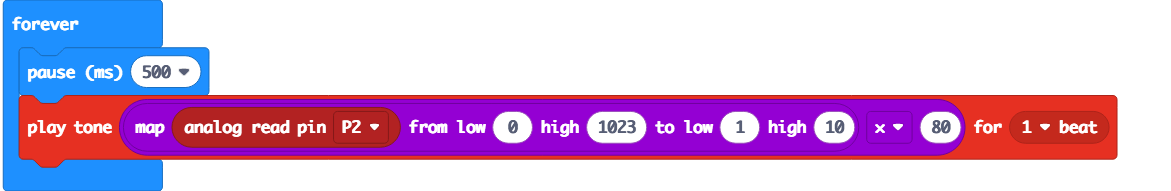
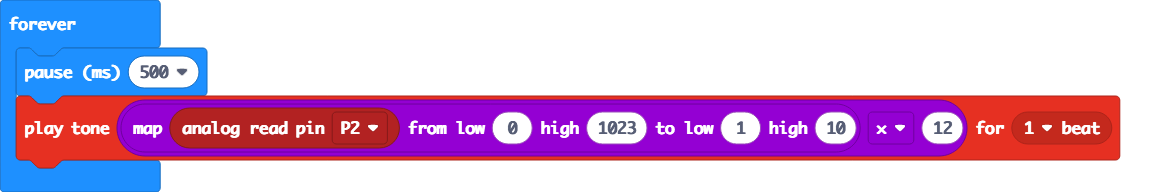
now play midi notes in octaves.

diff --git a/main.ts b/main.ts
@@ -1,4 +1,4 @@
 basic.forever(function () {
     basic.pause(500)
-    music.playTone(Math.map(pins.analogReadPin(AnalogPin.P2), 0, 1023, 1, 10) * 80, music.beat(BeatFraction.Whole))
+    music.playTone(Math.map(pins.analogReadPin(AnalogPin.P2), 0, 1023, 1, 10) * 12, music.beat(BeatFraction.Whole))
 })
